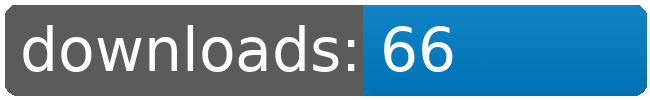
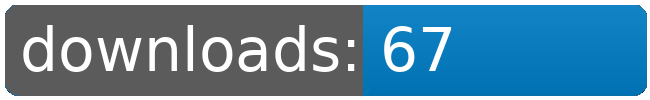
dl log written

Changed region(s): [[0.6462, 0.27, 0.7077, 0.72]]

diff --git a/README.md b/README.md
@@ -4,113 +4,113 @@
 <table>
 	<tr>
 		<td></td>
-		<td>2026-07-24</td>
 		<td>2026-07-25</td>
 		<td>2026-07-26</td>
 		<td>2026-07-27</td>
 		<td>2026-07-28</td>
 		<td>2026-07-29</td>
 		<td>2026-07-30</td>
+		<td>2026-07-31</td>
 		<td>today +</td>
 	</tr>
 	<tr>
 		<td>Bunsen.Burner</td>
-		<td>7723</td>
 		<td>7738</td>
 		<td>7755</td>
 		<td>7767</td>
 		<td>7773</td>
 		<td>7787</td>
 		<td>7802</td>
-		<td>+ 15</td>
+		<td>7802</td>
+		<td></td>
 	</tr>
 	<tr>
 		<td>Factory.Outlets</td>
-		<td>6809</td>
 		<td>6824</td>
 		<td>6840</td>
 		<td>6854</td>
 		<td>6862</td>
 		<td>6878</td>
 		<td>6892</td>
-		<td>+ 14</td>
+		<td>6892</td>
+		<td></td>
 	</tr>
 	<tr>
 		<td>Fundamental.Outfit.Expansion</td>
-		<td>8110</td>
 		<td>8128</td>
 		<td>8144</td>
 		<td>8160</td>
 		<td>8168</td>
 		<td>8183</td>
 		<td>8200</td>
-		<td>+ 17</td>
+		<td>8200</td>
+		<td></td>
 	</tr>
 	<tr>
 		<td>Jaws</td>
-		<td>6641</td>
 		<td>6656</td>
 		<td>6672</td>
 		<td>6685</td>
 		<td>6692</td>
 		<td>6707</td>
 		<td>6721</td>
-		<td>+ 14</td>
+		<td>6721</td>
+		<td></td>
 	</tr>
 	<tr>
 		<td>Korunak.Defense.Drones</td>
-		<td>6861</td>
 		<td>6876</td>
 		<td>6892</td>
 		<td>6905</td>
 		<td>6912</td>
 		<td>6926</td>
 		<td>6940</td>
-		<td>+ 14</td>
+		<td>6940</td>
+		<td></td>
 	</tr>
 	<tr>
 		<td>Louise.Conglomerate.Shipyards</td>
-		<td>7506</td>
 		<td>7521</td>
 		<td>7539</td>
 		<td>7553</td>
 		<td>7560</td>
 		<td>7576</td>
 		<td>7590</td>
-		<td>+ 14</td>
+		<td>7590</td>
+		<td></td>
 	</tr>
 	<tr>
 		<td>Sheragi.Rebirth.Redux</td>
 		<td>65</td>
-		<td>65</td>
 		<td>66</td>
 		<td>66</td>
 		<td>66</td>
 		<td>66</td>
 		<td>66</td>
-		<td></td>
+		<td>67</td>
+		<td>+ 1</td>
 	</tr>
 	<tr>
 		<td>Solar.Sails</td>
-		<td>6766</td>
 		<td>6781</td>
 		<td>6795</td>
 		<td>6808</td>
 		<td>6814</td>
 		<td>6828</td>
 		<td>6842</td>
-		<td>+ 14</td>
+		<td>6842</td>
+		<td></td>
 	</tr>
 	<tr>
 		<td>Zone.of.Control</td>
-		<td>6586</td>
 		<td>6601</td>
 		<td>6617</td>
 		<td>6630</td>
 		<td>6636</td>
 		<td>6650</td>
 		<td>6664</td>
-		<td>+ 14</td>
+		<td>6664</td>
+		<td></td>
 	</tr>
 	<tr>
 		<td></td>
@@ -120,8 +120,8 @@
 		<td></td>
 		<td></td>
 		<td></td>
-		<td>57717</td>
-		<td>116</td>
+		<td>57718</td>
+		<td>1</td>
 	</tr>
 </table>
 </sub></sup>
@@ -129,113 +129,113 @@
 <table>
 	<tr>
 		<td></td>
-		<td>2026-07-24</td>
 		<td>2026-07-25</td>
 		<td>2026-07-26</td>
 		<td>2026-07-27</td>
 		<td>2026-07-28</td>
 		<td>2026-07-29</td>
 		<td>2026-07-30</td>
+		<td>2026-07-31</td>
 		<td>today +</td>
 	</tr>
 	<tr>
 		<td>Fundamental.Outfit.Expansion</td>
-		<td>8110</td>
 		<td>8128</td>
 		<td>8144</td>
 		<td>8160</td>
 		<td>8168</td>
 		<td>8183</td>
 		<td>8200</td>
-		<td>+ 17</td>
+		<td>8200</td>
+		<td></td>
 	</tr>
 	<tr>
 		<td>Bunsen.Burner</td>
-		<td>7723</td>
 		<td>7738</td>
 		<td>7755</td>
 		<td>7767</td>
 		<td>7773</td>
 		<td>7787</td>
 		<td>7802</td>
-		<td>+ 15</td>
+		<td>7802</td>
+		<td></td>
 	</tr>
 	<tr>
 		<td>Louise.Conglomerate.Shipyards</td>
-		<td>7506</td>
 		<td>7521</td>
 		<td>7539</td>
 		<td>7553</td>
 		<td>7560</td>
 		<td>7576</td>
 		<td>7590</td>
-		<td>+ 14</td>
+		<td>7590</td>
+		<td></td>
 	</tr>
 	<tr>
 		<td>Korunak.Defense.Drones</td>
-		<td>6861</td>
 		<td>6876</td>
 		<td>6892</td>
 		<td>6905</td>
 		<td>6912</td>
 		<td>6926</td>
 		<td>6940</td>
-		<td>+ 14</td>
+		<td>6940</td>
+		<td></td>
 	</tr>
 	<tr>
 		<td>Factory.Outlets</td>
-		<td>6809</td>
 		<td>6824</td>
 		<td>6840</td>
 		<td>6854</td>
 		<td>6862</td>
 		<td>6878</td>
 		<td>6892</td>
-		<td>+ 14</td>
+		<td>6892</td>
+		<td></td>
 	</tr>
 	<tr>
 		<td>Solar.Sails</td>
-		<td>6766</td>
 		<td>6781</td>
 		<td>6795</td>
 		<td>6808</td>
 		<td>6814</td>
 		<td>6828</td>
 		<td>6842</td>
-		<td>+ 14</td>
+		<td>6842</td>
+		<td></td>
 	</tr>
 	<tr>
 		<td>Jaws</td>
-		<td>6641</td>
 		<td>6656</td>
 		<td>6672</td>
 		<td>6685</td>
 		<td>6692</td>
 		<td>6707</td>
 		<td>6721</td>
-		<td>+ 14</td>
+		<td>6721</td>
+		<td></td>
 	</tr>
 	<tr>
 		<td>Zone.of.Control</td>
-		<td>6586</td>
 		<td>6601</td>
 		<td>6617</td>
 		<td>6630</td>
 		<td>6636</td>
 		<td>6650</td>
 		<td>6664</td>
-		<td>+ 14</td>
+		<td>6664</td>
+		<td></td>
 	</tr>
 	<tr>
 		<td>Sheragi.Rebirth.Redux</td>
 		<td>65</td>
-		<td>65</td>
 		<td>66</td>
 		<td>66</td>
 		<td>66</td>
 		<td>66</td>
 		<td>66</td>
-		<td></td>
+		<td>67</td>
+		<td>+ 1</td>
 	</tr>
 	<tr>
 		<td></td>
@@ -245,8 +245,8 @@
 		<td></td>
 		<td></td>
 		<td></td>
-		<td>57717</td>
-		<td>116</td>
+		<td>57718</td>
+		<td>1</td>
 	</tr>
 </table>
 </sub></sup>
@@ -313,9 +313,9 @@
 		<td></td>
 	</tr>
 	<tr>
-		<td>290</td>
-		<td>21.46</td>
-		<td>6.56</td>
+		<td>291</td>
+		<td>21.38</td>
+		<td>6.53</td>
 		<td></td>
 		<td></td>
 	</tr>
